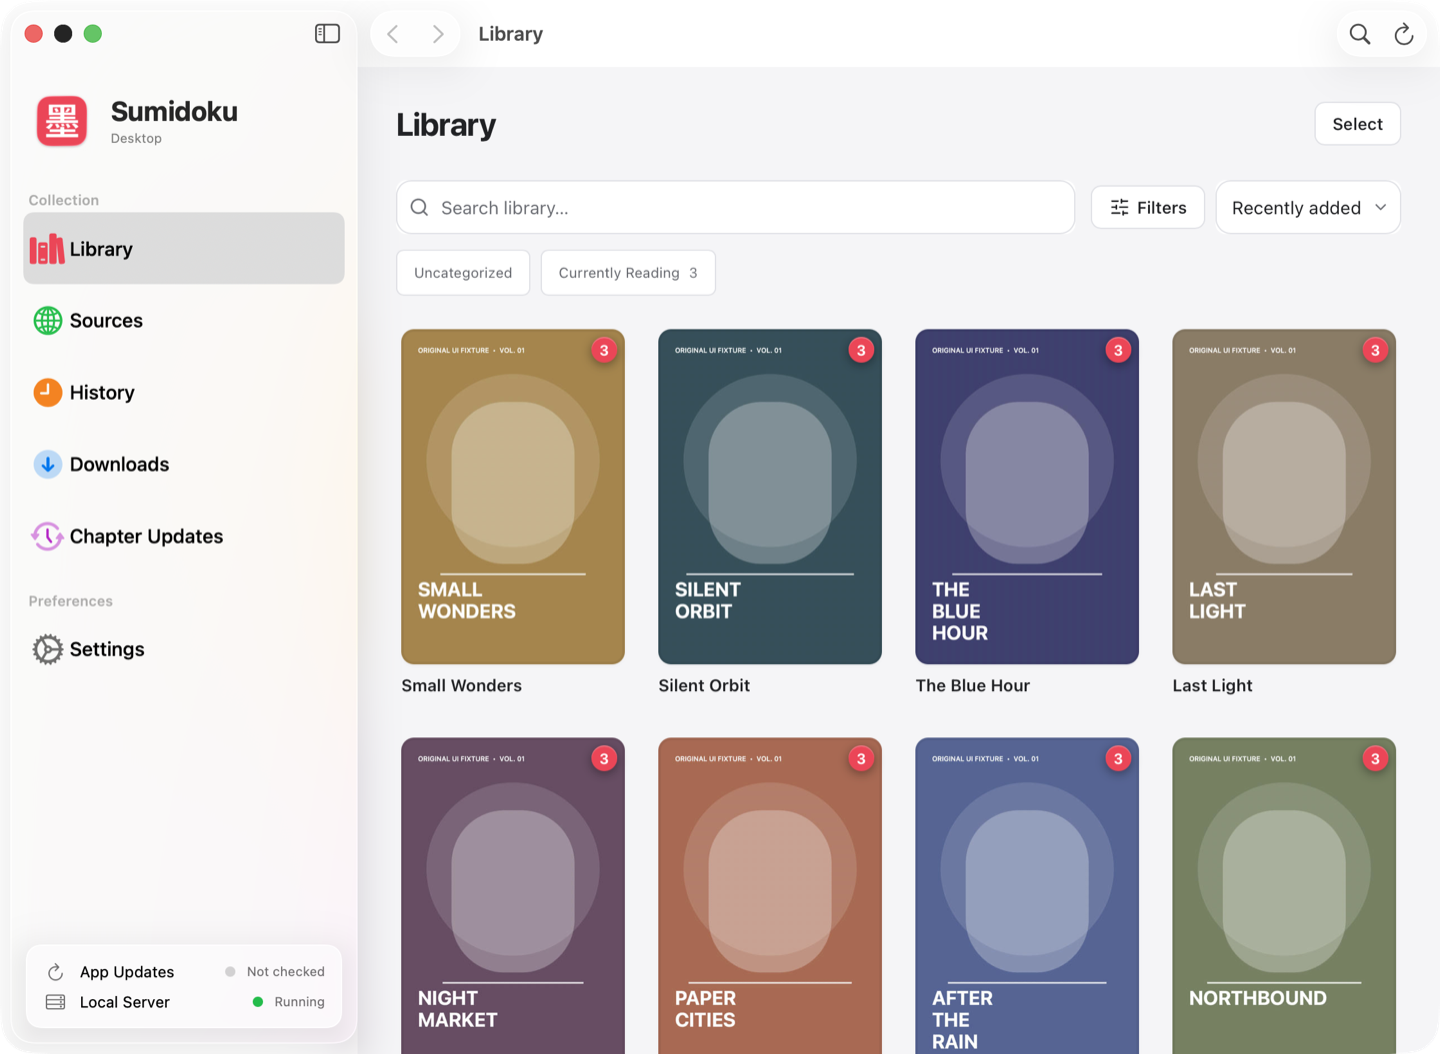
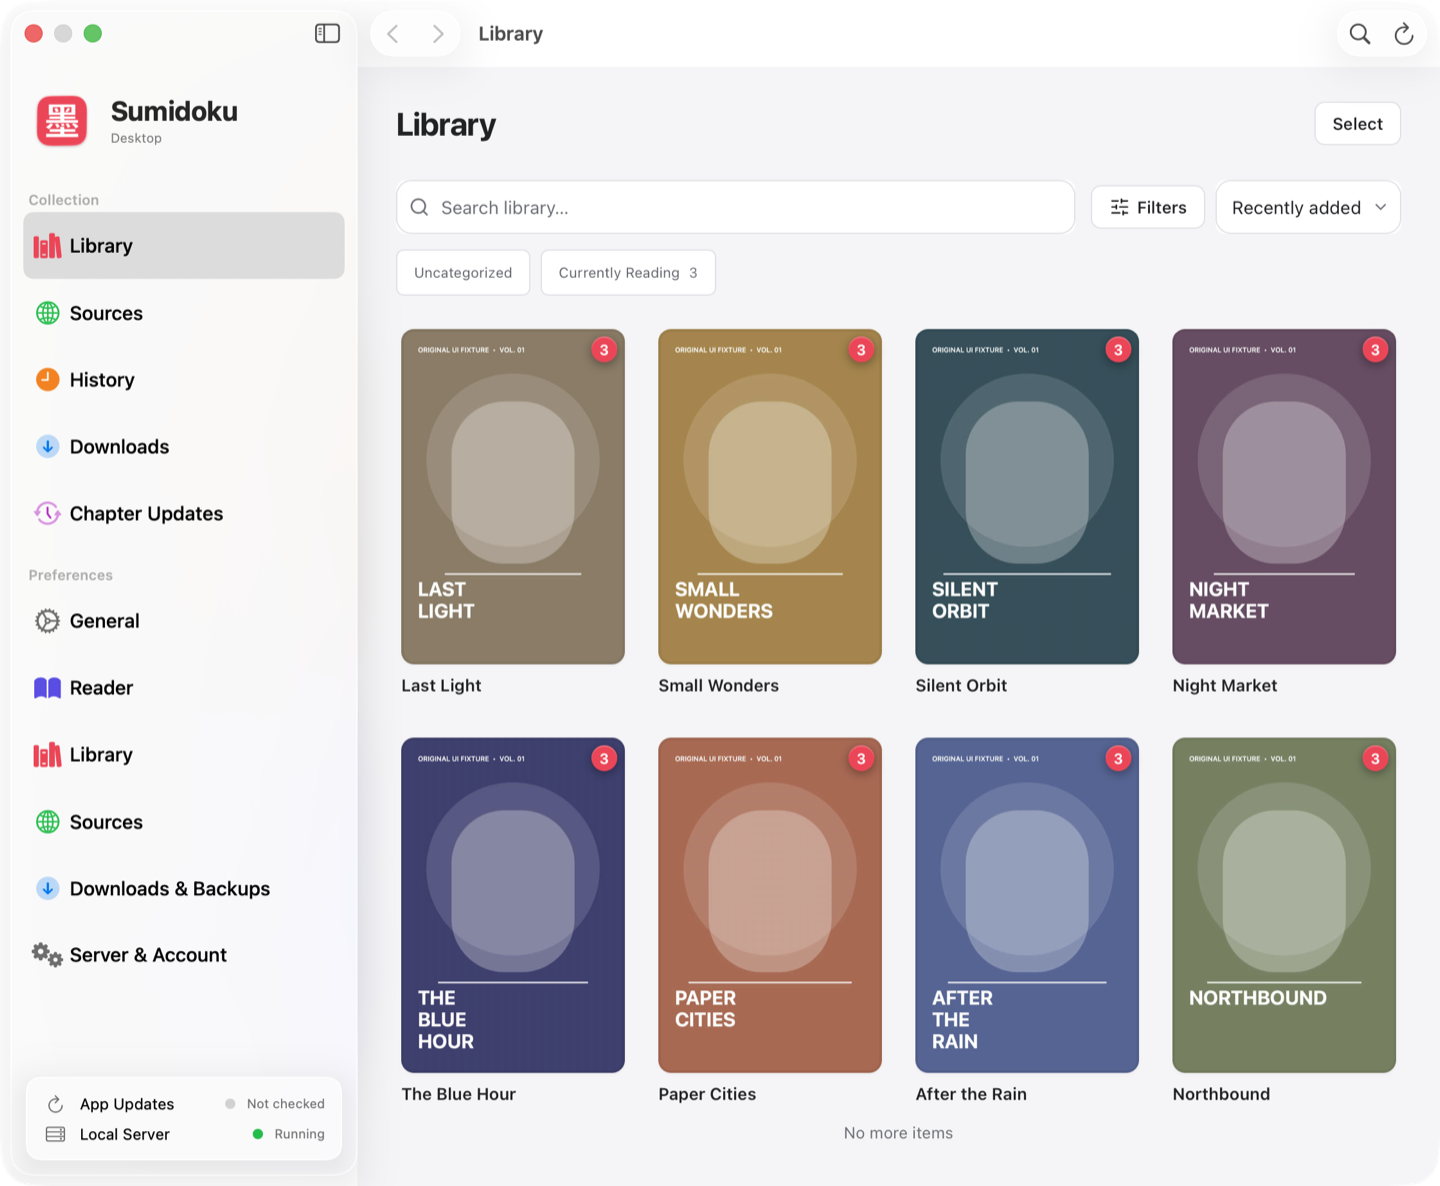
docs: desktop: publish final sidebar captures and cleanup results
Record the single 1.3.1 build, 20 focused frontend checks, seven native static checks, eleven native destinations, legacy/root selection, footer actions and Aidoku recovery. Replace obsolete captures with exactly one light/dark pair and document verified cleanup. Full repository merge gates remain uncertified; no install, service replacement, merge or release.

diff --git a/docs/SIDEBAR_131.md b/docs/SIDEBAR_131.md
@@ -1,198 +1,114 @@
-# Sumidoku Desktop 1.3.1 — sidebar and Settings redesign
+# Sumidoku Desktop 1.3.1 (7) — final sidebar review
 
-**Status:** The previous six-entry 1.3.1 (7) design passed Mac preview/build checks
-and remains staged for review. A follow-up changes icon sizing and the Preferences
-shortcuts on this PR; these new changes have **not** yet been built or visually
-verified on macOS. The installed 1.3.0 (6), existing server and library remain
-untouched. No merge, release or installation is authorized by this document.
+The revised sidebar was pulled at `a8eb608`. The final runtime build is
+`250c0c4`, including the query-aware active-selection correction in `417043c`.
+The installed 1.3.0 (6), persistent library and existing server are preserved.
+This PR remains draft; no merge, installation or release is performed here.
 
-## Navigation — final Preferences structure
+## Final design
 
-The native macOS `NavigationSplitView` sidebar has **eleven destinations**:
-five Collection entries and six concise Preferences entries. This remains
-smaller than the original fifteen-entry sidebar and makes General explicit.
+The original Sumidoku mark remains **48pt**. Native navigation uses **18pt**
+medium SF Symbols, a 26pt icon column, comfortable 44pt minimum rows and
+consistent semantic colors. Native Liquid Glass and its existing system-material
+fallbacks are preserved; no custom icon artwork is added.
 
 **Collection:** Library, Sources, History, Downloads, Chapter Updates.
 
-**Preferences:**
-
-| Sidebar entry | Settings section | Contents |
+| Preferences, in order | Legacy section | Contents |
 | --- | --- | --- |
 | General | `general` | Appearance, language, application updates |
 | Reader | `reader` | Reading modes, gestures, incognito reading |
 | Library | `library` | Categories, library display, chapter refresh |
-| Sources | `source-lists`, `trackers` | Source Lists, source updates and trackers |
-| Downloads & Backups | `downloads`, `backups` | Download preferences, backup/import/restore |
-| Server & Account | `system` | Native server controls, account, security, cache and diagnostics |
+| Sources | `source-lists`, `trackers` | Source Lists, source updates, trackers |
+| Downloads & Backups | `downloads`, `backups` | Downloads, backups, import/restore |
+| Server & Account | `system` | Server controls, account, security, cache, diagnostics |
 
-Native icons use restrained, Aidoku-aligned OS-rendered **18pt medium SF
-Symbols** with a 26pt icon column and **44pt minimum rows**. The unchanged
-original Sumidoku logo remains 48pt. The sidebar stays resizable; OS-native
-Liquid Glass and accessibility fallback surfaces remain unchanged. No external
-icon artwork has been introduced.
+Both native and browser-only sidebars expose eleven destinations. The root
+`/settings` selects General; all eight historical query-section links remain
+valid. Trackers selects Sources and backups selects Downloads & Backups. All
+eight Settings panels remain mounted, preserving Aidoku recovery while managing
+Source Lists. Browser query-aware links now expose exactly one `aria-current`
+destination, rather than inheriting pathname-only NavLink selection.
 
-The same eleven top-level links are present in the browser-only fallback
-sidebar. All eight legacy `?section=general|reader|library|source-lists|
-trackers|downloads|backups|system` deep links work. Trackers correctly selects
-Sources in the native sidebar and backups selects Downloads & Backups. Every
-Settings panel remains mounted while inactive, preserving in-progress Aidoku
-backup recovery when switching to Source Lists.
+App Updates and Local Server retain their compact native footer controls and
+actual status. Opening a footer panel changes neither the server nor its service.
+The main-frame localhost check on the native bridge remains intact.
 
-The native `server` message is accepted only by the existing main-frame,
-localhost-checked `WKScriptMessageHandler`. No new background server, network
-endpoint, or automatic installation behavior has been introduced.
+## Focused verification
 
-## Native sidebar footer
+| Check | Result |
+| --- | --- |
+| TypeScript | Passed |
+| Frontend sidebar, Settings, import rendering and locale checks | 20 passed |
+| Native sidebar/symbol regression guards | 7 passed |
+| Native application build | One build; 1.3.1 (7), strict signature verified |
+| Embedded frontend | Six index/assets matched the frontend build byte for byte |
+| Native route/legacy selection/footer/Aidoku recovery | Passed: 11 destinations, 9 legacy/root links, both footer clicks and exact-file recovery |
+| Screenshots | Passed: exactly one light and one dark native capture |
 
-A single, compact native material surface contains two buttons:
+The current-destination regression was deliberately broken from committed green:
+pathname-only NavLink marked six Preferences links current. Restoring the single
+file returned the focused assertion to green. Three stale assertions and the
+unused earlier category labels were removed or updated.
 
-- **App Updates:** actual update state and colored status. Neutral when unverified,
-  green when verified current, orange when available, red for actual errors.
-  The visible text is abbreviated for the sidebar and the accessibility label
-  contains the complete result. Opens the existing native Updates panel.
-- **Local Server:** actual server availability and colored state text. Opens
-  the existing native Server & Account panel.
-
-Status controls do not trigger an update or change the background service.
-
-## Version
-
-`macos/build-app.sh` sets **1.3.1 (7)** for development builds from this
-branch. The user's currently installed 1.3.0 (6) remains unchanged.
-No public 1.3.1 release or signed feed is published.
-
-## Required before merge/install
-
-Run on the Mac against a disposable test library first:
+Reproduce only the relevant checks:
 
 ```sh
-npm --prefix webui ci
 npm --prefix webui run check
-npm --prefix webui test
-export CARGO_BUILD_JOBS=1
-export CARGO_TARGET_DIR="${TMPDIR:-/tmp}/sumidoku-fork-target"
-./macos/build-fork.sh
-export SUMIDOKU_SERVER_BINARY="$PWD/dist/fork/sumidoku-server"
-cargo nextest run --workspace
-cargo clippy --workspace --all-targets -- -D warnings
-python3 -m unittest discover -s macos/tests -p 'test_*.py'
-./macos/test-app.sh
-./macos/test-updates.sh
-./macos/test-community.sh
-./macos/test-symbols.sh
-./macos/test-onboarding.sh
-./macos/test-onboarding.sh --launchagent
-python3 macos/test-desktop.py
-python3 macos/test-sources.py
-./macos/test-welcome.sh
-python3 macos/smoke-test.py
+(cd webui && node --test tests/sidebar-layout.test.ts tests/settings-layout.test.ts tests/desktop-design.test.ts tests/settings-import.test.ts tests/i18n.test.ts)
+python3 -m unittest macos.tests.test_sidebar_131 macos.tests.test_aidoku_symbols
+CARGO_BUILD_JOBS=1 ./macos/build-fork.sh
+SUMIDOKU_SERVER_BINARY="$PWD/dist/fork/sumidoku-server" SUMIDOKU_TEST_SIDEBAR_ONLY=1 python3 macos/test-desktop.py
 ```
 
-Freeze the built frontend and executable while these tests run. The binary override
-ensures fixtures use this build rather than the installed official server. Run cold
-release/debug Rust builds sequentially to keep memory use bounded.
+The focused preview uses a disposable library, checks eleven selection bindings,
+root Settings plus eight legacy URLs, both actual footer clicks, six categories,
+eight persistent panels, back/forward and exact-byte Aidoku backup resume. It
+saves only `library-light.png`, `library-dark.png` and verification metadata.
+The existing extended fixture remains available for broader future work.
 
-Additional manual checks:
+## Cleanup
 
-1. Visually inspect a real unlocked native window in light/dark, larger text,
-   high contrast and reduced transparency. The original Sumidoku icon must
-   remain unchanged.
-2. Select each of the eleven sidebar entries and six Settings categories; use
-   both internal Settings subsections and browser back/forward. Verify the
-   selected state and no duplicate visible sidebar in WKWebView.
-3. Open an existing Aidoku backup, navigate to Settings → Sources & Tracking →
-   Source Lists and return. The backup file and exact-ID recovery state must
-   survive. Confirm explicit removal choices still preserve library/progress.
-4. Click App Updates and Local Server footer controls and verify that actual
-   statuses and panel destinations are correct. Force offline/checking/error
-   states; no false green state.
-5. Confirm authenticated restart, one managed localhost server, account,
-   library, categories, reading progress, sources, downloads and backups.
-6. The app should not download chapters, install updates automatically or
-   change signing policy as part of this UI-only change.
+Removed only verified obsolete or redundant artifacts:
 
-## Latest follow-up: concise Preferences and General
+- Four earlier six-destination 1.3.1 app copies (including the superseded review
+  copy), plus three emptied app staging directories. One final staged app remains.
+- Six old temporary capture directories containing 108 files, plus the final
+  temporary capture copy (three files) after preserving the canonical pair/metadata.
+- Twenty-six older verification logs. Current focused logs and regression evidence
+  are retained with the final staged app.
+- Eight superseded tracked variants: `footer-available.png`, `footer-error.png`,
+  `footer-offline.png`, `reduced-transparency.png`, `sidebar-increased-contrast.png`,
+  `sidebar-large-text.png`, `sidebar-small.png`, `source-lists.png`.
+- Thirty unused translation entries: `categoryReadingLibrary`,
+  `categorySourcesTracking`, `categoryAppearanceUpdates` in ten locale catalogs.
+  Three stale single/five-category assertions were updated, and one unused Python
+  import was removed. Useful extended test drivers remain; the focused mode
+  avoids running them for this small change.
 
-The latest PR head separates Reader and Library, adds **General** as the first
-Preferences shortcut, renames Sources & Tracking to **Sources**, and retains
-Downloads & Backups and Server & Account. Incognito reading controls now sit
-under Reader instead of General. Both native and browser sidebars and their
-focused tests/preview fixtures have been updated. **These latest changes are
-not in the earlier staged app or screenshots below; a new focused native build,
-one representative light/dark capture and relevant test pass are required.**
-Do not claim that previous 378 frontend / 29 Python test results certify this
-new head.
+The two canonical images and verification JSON replace the earlier design's
+copies. The exact local removed/replaced path inventory is `cleanup.json` beside
+the staged app. Latest evidence, useful test sources, compiler caches, historical
+1.3.0 documentation and every personal/installed component are retained. Finder
+folder metadata was preserved. The installed 1.3.0 executable is byte-identical;
+the same existing server remains the sole localhost listener.
 
-## Mac verification results
+## Review images
 
-The first full frontend run found missing category translations in nine locales
-and two tests still asserting the old flat Settings navigation. The Python symbol
-suite also pinned the removed individual native settings rows. The locale catalogs
-and regression assertions were corrected without removing any legacy panel/route.
-The unchanged locale-coverage test was deliberately broken from committed green by
-removing one German category key; it failed on that exact missing key, then passed
-after a single-file restore.
+These are the final eleven-destination native captures using
+original disposable comic fixtures; no personal library data is published.
 
-- Frontend: **378 passed**; TypeScript check and production build passed.
-- Python maintenance/static regressions: **29 passed**.
-- Native navigation **12**, update/material policies **37**, community bootstrap **9**,
-  native symbols **6 resolutions + 2 fallback cases** passed.
-- Previous six-entry build's native fixture: six destination selection bindings; own-window clicks on both
-  footer buttons; four fixture release outcomes (offline, malformed/error, empty
-  catalog/unverified, update available), each passing through Checking; five
-  visible Settings categories, eight persistent panels, subsections/back-forward,
-  independent source preferences and exact-byte Aidoku backup resume all passed.
-- Actual unlocked native window captures passed in light/dark, a 920×640 window,
-  high-contrast appearance and an enlarged web-content preview. No duplicate browser
-  sidebar is visible. Original Sumidoku logo/red theme and native materials remain.
-- The **previous six-entry staged 1.3.1 (7)** build passed strict/deep signature verification. The six
-  embedded index/assets match the built frontend byte for byte; the packaged
-  server digest matches the fork manifest. Runtime build revision was `8d99f93`;
-  the new ten-entry sidebar changes are **not included** in that staged build.
-- Onboarding/authenticated restart: **32 assertions each** through direct-process
-  and temporary LaunchAgent drivers. Backup/source smoke passed exact-ID Aidoku
-  import, invalid-backup rejection, export/restore, categories/progress, restart
-  persistence and zero downloads. All fixture data is disposable.
-- Source UI: all four built-in setup/test forms, grouped Source Lists and add-list
-  controls passed against the final embedded frontend. Welcome/create/sign-in
-  views rendered without creating a real account.
-- The installed 1.3.0 (6) and its managed localhost server were not replaced or
-  restarted. Private preservation fingerprints for the actual library, credentials,
-  progress, settings, source records, configuration/key files, downloads, backups,
-  descriptor and official executable still match the pre-verification baseline.
-- Rust test compilation completed. Full nextest execution was stopped before
-  completion; strict Clippy was not run. Neither is claimed as passing.
+![Final light sidebar](images/sidebar-131/library-light.png)
+![Final dark sidebar](images/sidebar-131/library-dark.png)
 
-### New follow-up verification (outstanding)
+## Remaining gates
 
-The reduced 18pt native glyphs, five Preferences shortcuts, URL-based
-selection mapping, and the corresponding browser-only navigation are code
-changes after the previous screenshots and Mac test results. Focused
-regression guards have been updated, including the actual window fixture's
-ten-route verification. Before install/merge, run the frontend's focused
-sidebar tests, the small Python native-sidebar suite, and one native UI build
-and representative light/dark capture on the new PR head. The screenshots
-below represent the **earlier 22pt/six-entry design**, not this revision.
+Full Rust/Clippy, the complete frontend suite and remote CI are not certified on
+this head by this focused UI review. Mandatory repository merge gates remain
+incomplete; previous broader results do not certify this revision. Actual older
+hardware, global accessibility settings and reboot behavior remain separate checks.
 
-### Visual evidence
-
-These are captures of the running native fixture with original disposable comic
-art, resized for documentation; no personal library or credentials are included.
-
-![Native sidebar in light mode](images/sidebar-131/library-light.png)
-![Native sidebar in dark mode](images/sidebar-131/library-dark.png)
-![Grouped Source Lists](images/sidebar-131/source-lists.png)
-![Compact window](images/sidebar-131/sidebar-small.png)
-![High-contrast native appearance](images/sidebar-131/sidebar-increased-contrast.png)
-
-The large-text preview sets WebKit zoom to 135%. Native rows currently specify
-point sizes explicitly, so this is not
-certification of native text scaling under every macOS accessibility setting.
-Reduced-transparency/forced-material policies are checked using the native control
-fixture; system-wide accessibility preferences were not changed. Actual older
-hardware, global accessibility setting changes and a reboot remain manual checks.
-
-Unsigned automatic app installation remains disabled. Release metadata transport
-is fixture-only in native UI tests; neither packages nor manga chapters are
-fetched automatically by this verification. Keep PR #4 draft and do not install
-over the current application, merge or publish until separately approved.
+The app is ad-hoc signed for local review, not notarized for public distribution.
+Unsigned automatic application installation stays disabled. No manga chapters are
+automatically downloaded, and no server/data migration or installation occurs.
+Do not merge PR #4, replace the installed app or publish 1.3.1 without approval.
